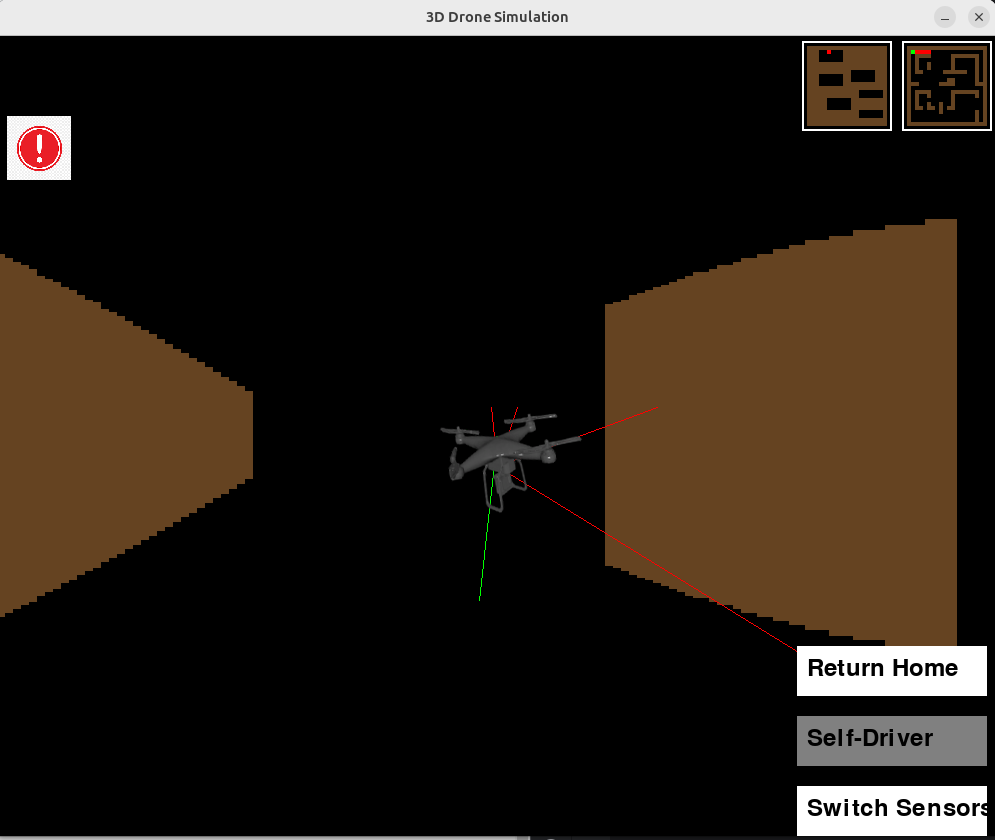
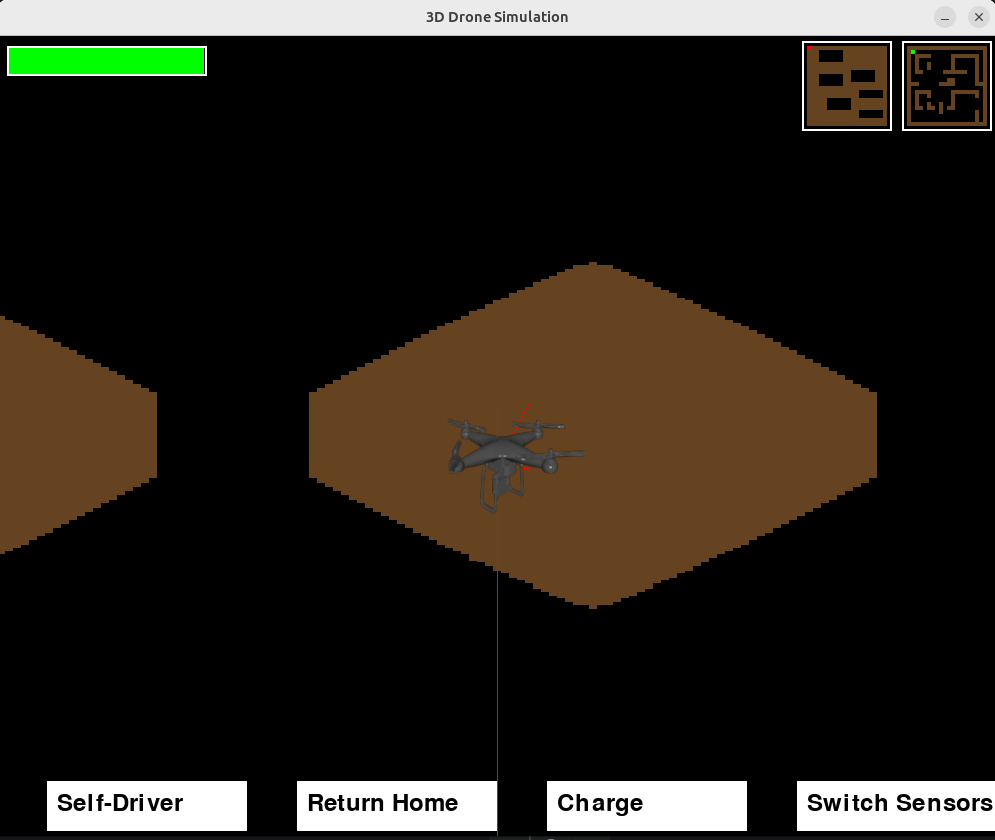
battery

diff --git a/Simulator_3D/game.py b/Simulator_3D/game.py
@@ -6,7 +6,7 @@ from sensor import Sensor
 from map import Map
 from button import Button
 from world_params import *
-
+from battery import Battery
 BLACK = (0, 0, 0)
 WHITE = (255, 255, 255)
 GRAY = (128, 128, 128)
@@ -21,17 +21,18 @@ class Game:
         pygame.font.init() # Initialize pygame font
         self.screen = pygame.display.set_mode((SCREEN_WIDTH, SCREEN_HEIGHT)) # Set the screen size
         pygame.display.set_caption("3D Drone Simulation") # Set the title of the window
+        self.battery = Battery()
         self.clock = pygame.time.Clock() # Initialize the clock
         self.running = True # Set the game to running
         self.drone = Drone() # Create the drone
         self.sensor = Sensor(self.drone) # Create the sensor
         self.map = Map() # Create the map
-        self.button_ai = Button('Self-Driver', SCREEN_WIDTH - 200, SCREEN_HEIGHT - 120, 190, 50) # Create the
+        self.button_ai = Button('Self-Driver', SCREEN_WIDTH - 950, SCREEN_HEIGHT - 55, 200, 50) # Create the
         # self-driving button
-        self.button_return = Button('Return Home', SCREEN_WIDTH - 200, SCREEN_HEIGHT - 190, 190, 50) # Create the
+        self.button_return = Button('Return Home', SCREEN_WIDTH - 700, SCREEN_HEIGHT - 55, 200, 50) # Create the
         # return home button
-        self.button_sensors = Button('Switch Sensors', SCREEN_WIDTH - 200, SCREEN_HEIGHT - 50, 190, 50) # Create the
-        # switch sensors button
+        self.button_sensors = Button('Switch Sensors', SCREEN_WIDTH - 200, SCREEN_HEIGHT - 55, 200, 50) # Create the
+        self.button_charge = Button('Charge', SCREEN_WIDTH - 450, SCREEN_HEIGHT - 55, 200, 50)
         self.do_ai = False # Set the self-driving mode to False
         self.do_return = False # Set the return home mode to False
 
@@ -449,8 +450,16 @@ class Game:
                         self.button_ai.color = WHITE
                         self.button_return.color = GRAY
                         self.button_sensors.color = WHITE
+                    if self.button_charge.rect.collidepoint(mouse_x, mouse_y):
+                        self.battery.is_half = False
+                        self.battery.charge = self.battery.max_charge
 
             self.drone.angle = math.radians(self.drone.gyro_angle)
+            if self.battery.drain():
+                self.do_return = True
+                self.do_ai = False
+                self.button_ai.color = WHITE
+                self.button_return.color = GRAY
 
             self.autonomous_movement()
             self.return_home_movement()
@@ -465,6 +474,9 @@ class Game:
             self.button_sensors.draw(self.screen)
             self.button_ai.draw(self.screen)
             self.button_return.draw(self.screen)
+            self.button_charge.draw(self.screen)
+            # Draw the battery
+            self.battery.draw(self.screen)
 
             pygame.draw.rect(self.screen, (255, 255, 255), (
                 MINIMAP_OFFSET_X - 5, MINIMAP_OFFSET_Y - 5, self.map.width * MINIMAP_SCALE + 10,
